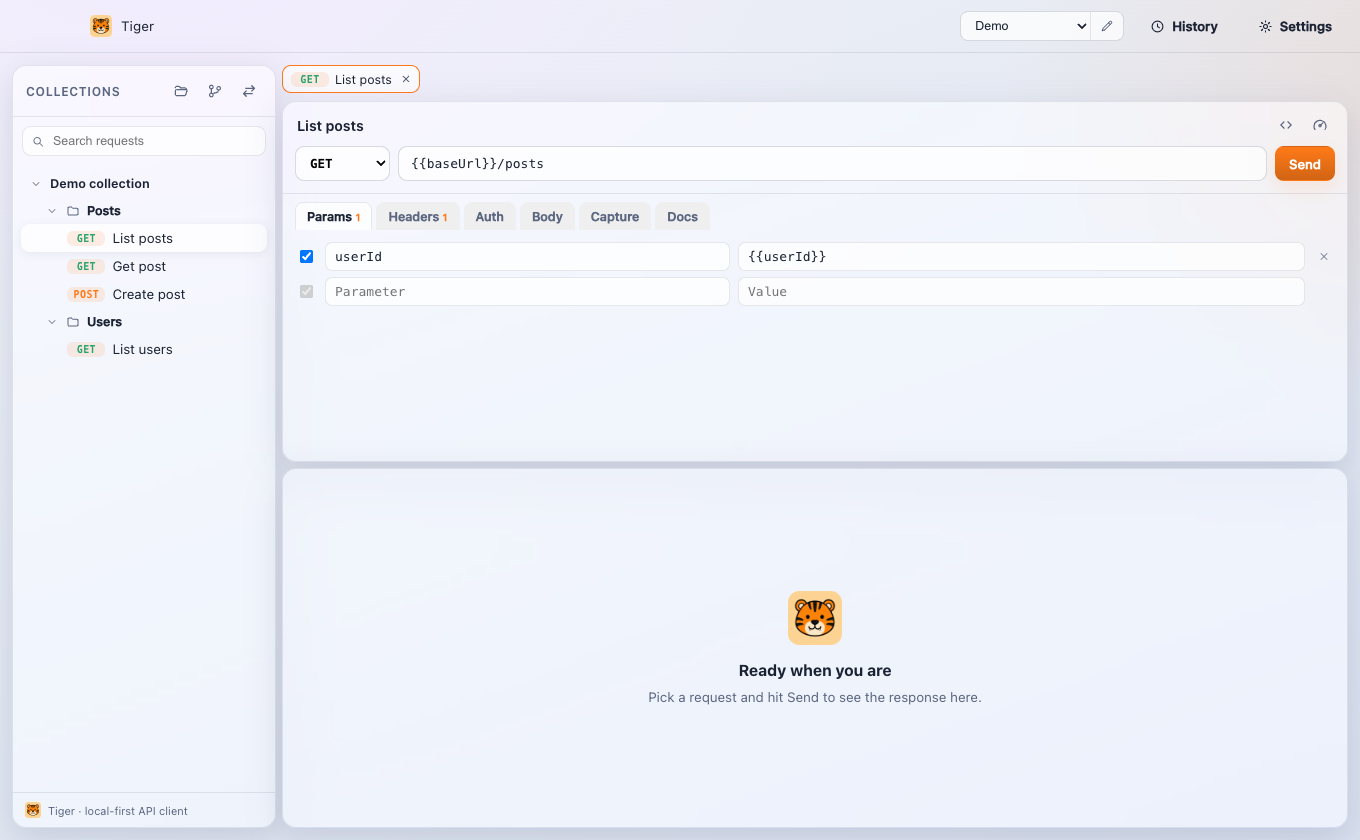
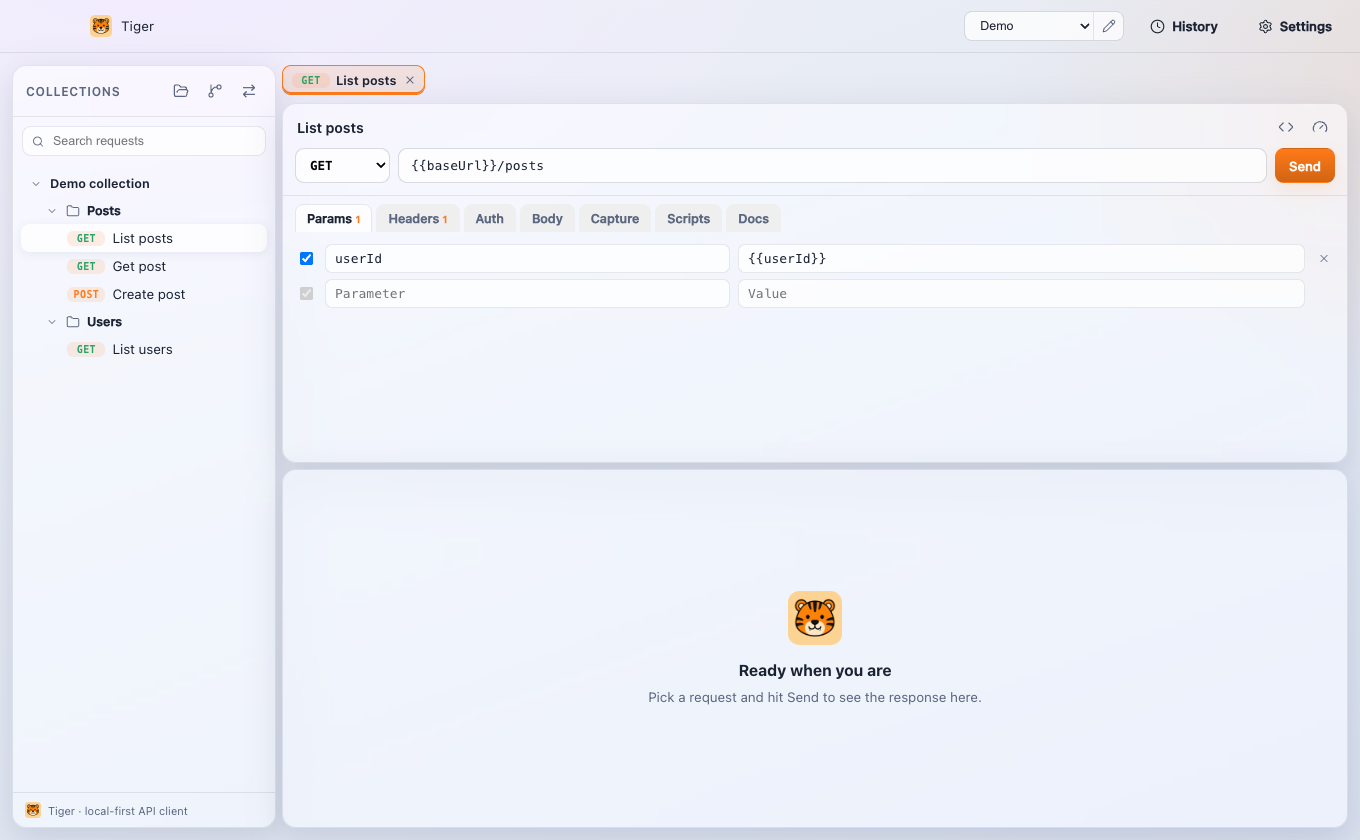
polish: modal transitions, actionable empty states, contrast pass, docs refresh
- Modals fade and lift in consistently (disabled under prefers-reduced-motion)
- Empty folder page gains a create CTA; runner empty state explains next steps
- Light-theme muted text token raised for readable contrast
- README and website updated for the runner, multipart upload, response search
  and previews, and keyboard shortcuts; collection-runner row added to the
  vs-Postman comparison; fresh app screenshot

diff --git a/src/renderer/src/components/FolderView.tsx b/src/renderer/src/components/FolderView.tsx
@@ -2,6 +2,7 @@ import type { TigerAuth } from '@core/types'
 import type { SidebarEntry } from './Sidebar'
 import { AuthEditor } from './AuthEditor'
 import { FolderIcon, PlayIcon, PlusIcon } from './Icons'
+import './FolderView.css'
 
 interface Props {
   collectionName: string
@@ -77,7 +78,12 @@ export function FolderView({
       </div>
       <div className="cv-card">
         {entries.length === 0 ? (
-          <div className="cv-dim">Empty folder. Create the first request here.</div>
+          <div className="cv-empty">
+            <div className="cv-dim">This folder is empty.</div>
+            <button className="btn" onClick={onNewRequest}>
+              <PlusIcon size={14} /> Create the first request
+            </button>
+          </div>
         ) : (
           entries.map((e) => (
             <div className="tree-row" key={e.id} onClick={() => onSelect(e.id)}>

diff --git a/website/compare/tiger-vs-postman/index.html b/website/compare/tiger-vs-postman/index.html
@@ -474,6 +474,15 @@
               </td>
             </tr>
             <tr>
+              <td>Collection runner with script assertions</td>
+              <td class="yes col-tiger">Yes
+                <span class="note">Run a collection or folder with live pass/fail from your tests, free</span>
+              </td>
+              <td class="mid">Limited free
+                <span class="note">Collection Runner runs are capped on the free plan</span>
+              </td>
+            </tr>
+            <tr>
               <td>Built-in performance runs</td>
               <td class="yes col-tiger">Yes
                 <span class="note">p50/p95 latency, bounded concurrency, no extra subscription</span>

diff --git a/website/index.html b/website/index.html
@@ -519,7 +519,7 @@
         <div class="cell">
           <span class="num">09</span>
           <h3>Bring your whole toolkit</h3>
-          <p>Import Postman, Insomnia, Bruno, OpenAPI or Swagger, or paste a curl command. Export whole collections back to Postman v2.1 or OpenAPI 3.0, and single requests as curl. REST, SOAP, GraphQL and code generation for curl, fetch and Python.</p>
+          <p>Import Postman, Insomnia, Bruno, OpenAPI or Swagger, or paste a curl command. Export back to Postman v2.1 or OpenAPI 3.0. REST, SOAP, GraphQL, multipart file uploads, and code generation for curl, fetch and Python.</p>
         </div>
       </div>
     </section>

diff --git a/src/renderer/src/components/Modal.css b/src/renderer/src/components/Modal.css
@@ -1,0 +1,19 @@
+/* Consistent modal enter transition (fade backdrop, lift content). */
+.modal-backdrop {
+  animation: modal-fade 0.16s ease-out;
+}
+.modal {
+  animation: modal-lift 0.18s cubic-bezier(0.2, 0.9, 0.3, 1);
+}
+@keyframes modal-fade {
+  from { opacity: 0; }
+  to { opacity: 1; }
+}
+@keyframes modal-lift {
+  from { opacity: 0; transform: translateY(10px) scale(0.985); }
+  to { opacity: 1; transform: none; }
+}
+@media (prefers-reduced-motion: reduce) {
+  .modal-backdrop,
+  .modal { animation: none; }
+}

diff --git a/src/renderer/src/components/RunnerModal.tsx b/src/renderer/src/components/RunnerModal.tsx
@@ -81,7 +81,7 @@ export function RunnerModal({ title, loadItems, environment, timeoutMs, onClose 
       {phase === 'loading' && <div className="cv-dim">Loading requests…</div>}
 
       {phase !== 'loading' && items.length === 0 && (
-        <div className="cv-dim">No requests in this scope.</div>
+        <div className="cv-dim">Nothing to run yet: this scope has no requests. Add one from the sidebar, then run again.</div>
       )}
 
       {phase !== 'loading' && items.length > 0 && (

diff --git a/src/renderer/src/styles.css b/src/renderer/src/styles.css
@@ -10,7 +10,7 @@
   --border-strong: rgba(28, 38, 72, 0.16);
   --text: #1a2233;
   --text-dim: #5b6680;
-  --text-faint: #899; /* muted */
+  --text-faint: #6e7890; /* muted, >=3:1 on the light glass */
   --accent: #ff7a18;
   --accent-ink: #ffffff;
   --accent-weak: rgba(255, 122, 24, 0.12);

diff --git a/src/renderer/src/components/Modal.tsx b/src/renderer/src/components/Modal.tsx
@@ -1,5 +1,6 @@
 import { useEffect, useRef, type ReactNode } from 'react'
 import { CloseIcon } from './Icons'
+import './Modal.css'
 
 interface Props {
   title: string

diff --git a/src/renderer/src/components/FolderView.css b/src/renderer/src/components/FolderView.css
@@ -1,0 +1,8 @@
+/* Folder page empty state. */
+.cv-empty {
+  display: flex;
+  flex-direction: column;
+  align-items: flex-start;
+  gap: 10px;
+  padding: 6px 0;
+}

diff --git a/README.md b/README.md
@@ -40,7 +40,11 @@ On top of the git-friendly storage model, Tiger adds a glass UI with light and d
 - **GraphQL.** Dedicated body type with a separate variables pane.
 - **SOAP and XML.** Send raw XML bodies for SOAP/WS-* APIs the same way you would for REST.
 - **JSON prettify and minify.** Format button and syntax highlighting in the editor and response panel, with Pretty/Raw and word-wrap toggles.
+- **Collection runner.** Run every request in a collection or folder sequentially with live pass/fail verdicts from your script tests, capture chaining between requests, and a stop button.
 - **Performance runs.** Fire N requests with a configurable concurrency level and get back min, max, avg, p50, and p95 timings.
+- **Multipart and file upload.** multipart/form-data bodies mix text fields and file rows with a per-row file picker; file paths live in the .tiger format as @file: values.
+- **Response power tools.** Search inside any response with Cmd/Ctrl+F (match cycling and highlights), preview HTML responses in a sandboxed frame, and view image responses inline.
+- **Keyboard-first.** A shortcuts overlay on Cmd/Ctrl+/, tab cycling, close-tab, quick-create, and focus-URL shortcuts. Inline rename (double-click or F2) and drag-and-drop to move requests between folders.
 - **Import and export Postman, OpenAPI, and more.** Import a Postman v2.0/v2.1 export, an Insomnia v4 export, a Bruno folder, an OpenAPI 3 / Swagger 2 spec, or a pasted curl command. Export collections back to Postman v2.1 or OpenAPI 3.0, and single requests as `.tiger` or curl.
 - **Code generation.** Turn any request into a curl command or a JavaScript fetch snippet.
 - **Cookie jar.** Persist cookies between sends and sessions, with automatic cross-origin stripping on redirects.
@@ -60,6 +64,8 @@ On top of the git-friendly storage model, Tiger adds a glass UI with light and d
 | GraphQL | Yes | Yes | Yes |
 | SOAP / XML | Yes | Yes | Yes |
 | Performance runner | Yes | Yes | No |
+| Collection runner with test assertions | Yes | Paid tiers | Limited |
+| Multipart file upload | Yes | Yes | Yes |
 | Offline, local-first | Yes | Partial | Yes |
 
 ## The `.tiger` format
